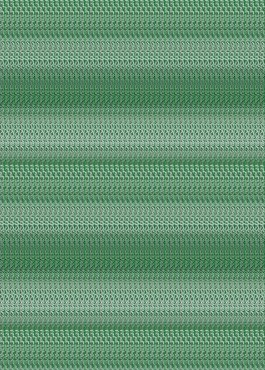
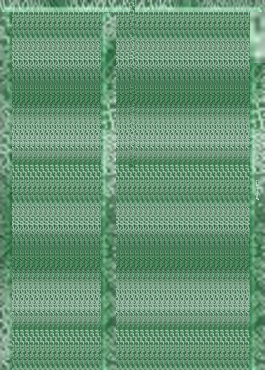
Improve style

Changed region(s): [[0.0, 0.0, 1.0, 1.0], [0.483, 0.2378, 0.5132, 0.4459]]

diff --git a/app/scss/main.scss b/app/scss/main.scss
@@ -171,7 +171,9 @@ body {
     border-top-right-radius: 6px;
     border-bottom-left-radius: 8%;
     border-bottom-right-radius: 8%;
-    background-image: url(/images/green-background.jpg);
+    background-image: url(../images/green-background.jpg);
+    background-repeat: no-repeat;
+    background-size: cover;
     display: flex;
     z-index: 0;
 }
@@ -180,16 +182,18 @@ body {
     z-index: 1;
     position: relative;
     height: 108%;
-    max-width: 98%;
+    max-width: 97%;
     left: 1%;
     top: 0.5%;
+    left: 1.2%;
     display: flex;
     flex-direction: column;
 }
-
 .frame-header,
 .frame-type-line {
-    background: #c9d8d1;
+    background: 
+        linear-gradient( 0deg, rgba(201, 216, 201, .3), rgba(201, 216, 209, .3) ), 
+        url(../images/tile-bg-1.jpg);         
     display: flex;
     margin-top: 10px;
     margin-left: 5px;
@@ -198,8 +202,8 @@ body {
     display: flex;
     justify-content: space-between;
     border-radius: 18px/40px;
+    
 }
-
 .name,
 .type {
     font-size: 1.3em;
@@ -239,10 +243,11 @@ body {
 .frame-text-box {
     margin: 0 10px;
     background: #d3ded6;
+    background-image: url(../images/tile-bg-2.jpg);
     display: flex;
     flex-direction: column;
     justify-content: space-around;    
-    padding: 30px 6px;
+    padding: 50px 6px;
     box-sizing: border-box;
     font-size: 1.2em;
 }
@@ -291,12 +296,13 @@ p {
 
 .fbi-center {
     border-radius: 60%;
-    flex-basis: 40px;
-    height: 20px;
+    flex-basis: 41px;
+    height: 21px;
     position: relative;
     bottom: 11px;
     z-index: 2;
     background: lightgray;
+    background-image: url(../images/holofoil-texture-2.jpg);
     box-shadow: 
         0 0 0 4px #171314;
 }
@@ -325,7 +331,7 @@ p {
 .frame-type-line {
     box-shadow: 
         0 0 0 2px #171314,
-        0 0 0 5px #31794c,
+        0 0 0 5px #26714A,
         -3px 3px 2px 5px #171314;
 
     margin-bottom: 7px;
@@ -333,7 +339,7 @@ p {
 
 .frame-text-box {
     box-shadow: 
-        0 0 0 5px #31794c,
+        0 0 0 5px #26714A,
         -3px 3px 2px 5px #171314;
 }
 

diff --git a/app/css/main.css b/app/css/main.css
@@ -160,7 +160,9 @@ body {
   border-top-right-radius: 6px;
   border-bottom-left-radius: 8%;
   border-bottom-right-radius: 8%;
-  background-image: url(/images/green-background.jpg);
+  background-image: url(../images/green-background.jpg);
+  background-repeat: no-repeat;
+  background-size: cover;
   display: flex;
   z-index: 0; }
 
@@ -168,15 +170,16 @@ body {
   z-index: 1;
   position: relative;
   height: 108%;
-  max-width: 98%;
+  max-width: 97%;
   left: 1%;
   top: 0.5%;
+  left: 1.2%;
   display: flex;
   flex-direction: column; }
 
 .frame-header,
 .frame-type-line {
-  background: #c9d8d1;
+  background: linear-gradient(0deg, rgba(201, 216, 201, 0.3), rgba(201, 216, 209, 0.3)), url(../images/tile-bg-1.jpg);
   display: flex;
   margin-top: 10px;
   margin-left: 5px;
@@ -220,10 +223,11 @@ body {
 .frame-text-box {
   margin: 0 10px;
   background: #d3ded6;
+  background-image: url(../images/tile-bg-2.jpg);
   display: flex;
   flex-direction: column;
   justify-content: space-around;
-  padding: 30px 6px;
+  padding: 50px 6px;
   box-sizing: border-box;
   font-size: 1.2em; }
 
@@ -265,12 +269,13 @@ p {
 
 .fbi-center {
   border-radius: 60%;
-  flex-basis: 40px;
-  height: 20px;
+  flex-basis: 41px;
+  height: 21px;
   position: relative;
   bottom: 11px;
   z-index: 2;
   background: lightgray;
+  background-image: url(../images/holofoil-texture-2.jpg);
   box-shadow: 0 0 0 4px #171314; }
 
 .inner-margins {
@@ -293,11 +298,11 @@ p {
 .frame-header,
 .frame-art,
 .frame-type-line {
-  box-shadow: 0 0 0 2px #171314, 0 0 0 5px #31794c, -3px 3px 2px 5px #171314;
+  box-shadow: 0 0 0 2px #171314, 0 0 0 5px #26714A, -3px 3px 2px 5px #171314;
   margin-bottom: 7px; }
 
 .frame-text-box {
-  box-shadow: 0 0 0 5px #31794c, -3px 3px 2px 5px #171314; }
+  box-shadow: 0 0 0 5px #26714A, -3px 3px 2px 5px #171314; }
 
 /*
     ----------------------
